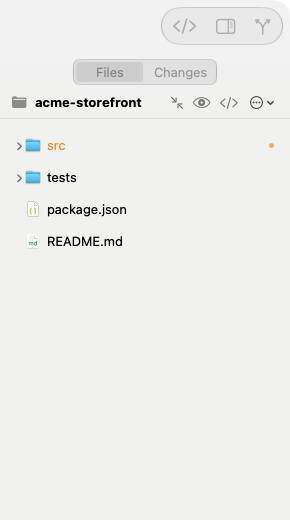
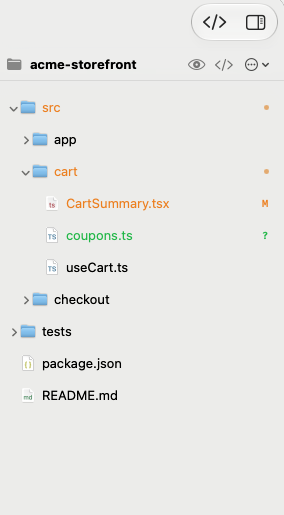
Docs: keep the Files panel screenshot that shows git marks; note the Sessions tab's title
The refreshed crop showed a collapsed tree (folders can't be expanded from a snapshot hook), so
the caption's M / A / ? marks weren't visible.

Claude-Session: https://claude.ai/code/session_01HNBpFA1pBHkNUddaWAkrrL

diff --git a/docs/tr/index.html b/docs/tr/index.html
@@ -88,7 +88,7 @@
         </figure>
         <figure class="shot">
           <img src="../screenshots/automations.png" width="1600" height="900" loading="lazy" alt="Hafta içi zamanlaması ve çalışma geçmişiyle Otomasyonlar sekmesi">
-          <figcaption><b>Otomasyonlar.</b> Saatte, günde, hafta içi her gün ya da haftada bir, ya da Şimdi Çalıştır'a bastığında Claude oturumu başlatan prompt'lar. Her çalışma, oturumuyla birlikte geçmişte durur.</figcaption>
+          <figcaption><b>Otomasyonlar.</b> Saatte bir, günde bir, hafta içi her gün ya da haftada bir, ya da Şimdi Çalıştır'a bastığında Claude oturumu başlatan prompt'lar. Her çalışma, oturumuyla birlikte geçmişte durur.</figcaption>
         </figure>
         <figure class="shot">
           <img src="../screenshots/github.png" width="1600" height="900" loading="lazy" alt="Başarısız bir kontrol, istenen değişiklikler ve son yorumlarla bağlı bir pull request'in açılır penceresi">
@@ -101,7 +101,7 @@
           <figcaption><b>Bekleyenler.</b> Tam komutuyla bir izin istemi, Claude'un sorduğu bir soru ve son mesajıyla biten bir iş. Aynı istemler bildirim olarak da gelir.</figcaption>
         </figure>
         <figure class="shot">
-          <img src="../screenshots/files.png" width="290" height="520" loading="lazy" alt="Git işaretli Dosyalar paneli">
+          <img src="../screenshots/files.png" width="284" height="515" loading="lazy" alt="Git işaretli Dosyalar paneli">
           <figcaption><b>Dosyalar paneli.</b> Git işaretli canlı dosya ağacı: değişenler <b>M</b>, yeniler <b>?</b>. Dosyayı seçince geçmişi ve diff'i görünür; Claude'a sürükleyince <code>@yol</code> olarak eklenir. ⌘P ile herhangi bir dosyayı adıyla açarsın.</figcaption>
         </figure>
         <figure class="shot">

diff --git a/docs/index.html b/docs/index.html
@@ -101,7 +101,7 @@
           <figcaption><b>Needs Attention.</b> A permission prompt with the exact command, a question Claude is asking, and a finished turn with its last message. The same prompts arrive as notifications.</figcaption>
         </figure>
         <figure class="shot">
-          <img src="screenshots/files.png" width="290" height="520" loading="lazy" alt="Files panel with git status marks">
+          <img src="screenshots/files.png" width="284" height="515" loading="lazy" alt="Files panel with git status marks">
           <figcaption><b>Files panel.</b> Live file tree with git marks: <b>M</b> for modified, <b>?</b> for new. Select a file for its history and diffs, or drag it into Claude as <code>@path</code>. ⌘P opens any file by name.</figcaption>
         </figure>
         <figure class="shot">

diff --git a/README.tr.md b/README.tr.md
@@ -70,7 +70,7 @@ Ayarların, `CLAUDE.md` dosyaların, remote-control, MCP, skill'ler ve diğer ho
         <li>Turuncu <b>M</b>: değişmiş. Yeşil <b>A/?</b>: yeni. Değişiklik içeren klasörler noktalı. <code>.gitignore</code>'un dışladığı dosyalar gizli kalır.</li>
         <li>Bir dosyayı seçince commit geçmişi ve diff'leri görünür; kaydedilmemiş değişiklikler de dahil.</li>
         <li>Dosyayı bir Claude bölmesine sürükle, <code>@yol</code> olarak eklensin. Dosyaları bir klasörün üstüne sürükleyerek taşırsın, Finder'dan da bırakabilirsin.</li>
-        <li>Üstteki <b>Files | Changes</b> paneli kaynak kontrolüne çevirir.</li>
+        <li>Panelin üstündeki <b>Files | Changes</b> paneli kaynak kontrolüne çevirir (ana ekran görüntüsünde görünüyor).</li>
       </ul>
     </td>
   </tr>
@@ -90,7 +90,7 @@ Ayarların, `CLAUDE.md` dosyaların, remote-control, MCP, skill'ler ve diğer ho
       <img src="docs/screenshots/tabs-editor.png" alt="Araç çubuğunda düzenleyici sekmeleri, açık bir TypeScript dosyası ve Dosyalar paneli">
     </td>
     <td valign="top">
-      <b>Sekmeler ve yerleşik düzenleyici.</b> Dosyalar araç çubuğunda sekme olarak açılır; ilk sekme her zaman <b>Oturumlar</b> (Sessions) sekmesidir:
+      <b>Sekmeler ve yerleşik düzenleyici.</b> Dosyalar araç çubuğunda sekme olarak açılır; ilk sekme her zaman <b>Oturumlar</b> (Sessions) sekmesidir ve odaktaki oturumun adını taşır:
       <ul>
         <li>Sözdizimi renklendirmesi, satır numaraları, bul ve değiştir ve ⌘S ile hafif bir kod düzenleyicisi.</li>
         <li><b>Claude'a Ekle</b> (yol çubuğundaki <code>@</code>) seçili oturuma <code>@yol</code> yazar; satır seçiliyse <code>@yol#L10-20</code>.</li>
@@ -347,7 +347,7 @@ Sabit bir imza kullanıldığı için macOS'un verdiği izinler (klasör erişim
 
 ### Sekmeler
 - Oturumlar dışında bir şey açılınca araç çubuğunda pencere başlığının yerine sekmeler çıkar:
-  - **Oturumlar** her zaman ilk sekmedir (⌘1): kenar çubuğundaki oturumlar ve bölmeler, eskisi gibi.
+  - **Oturumlar** her zaman ilk sekmedir (⌘1) ve odaktaki oturumun adıyla görünür: kenar çubuğundaki oturumlar ve bölmeler, eskisi gibi.
   - **Dosyalar** yerleşik düzenleyicide, Değişiklikler'deki **diff'ler** tam genişlikte, **Otomasyonlar** kendi sekmesinde açılır.
 - **Önizleme sekmesi:** Hızlı Aç'tan ya da Dosyalarda Bul'dan açılan dosyalar ve Değişiklikler'de tıklanan
   diff'ler italik bir önizleme sekmesinde açılır; sonraki onun yerine geçer. Düzenlersen ya da "Açık tut"

diff --git a/README.md b/README.md
@@ -68,7 +68,7 @@ ClaudeDeck doesn't wrap, imitate or screen-scrape Claude. Every session runs **y
         <li>Orange <b>M</b>: modified. Green <b>A/?</b>: new. Folders with changes get a dot. Files your <code>.gitignore</code> ignores stay hidden.</li>
         <li>Select a file to see its commit history and diffs, including uncommitted changes.</li>
         <li>Drag a file into a Claude pane to add it as <code>@path</code>. Drag files onto a folder to move them, or drop them in from Finder.</li>
-        <li><b>Files | Changes</b> at the top switches the panel to source control.</li>
+        <li><b>Files | Changes</b> at the top of the panel switches it to source control (see the main screenshot).</li>
       </ul>
     </td>
   </tr>
@@ -88,7 +88,7 @@ ClaudeDeck doesn't wrap, imitate or screen-scrape Claude. Every session runs **y
       <img src="docs/screenshots/tabs-editor.png" alt="Editor tabs in the toolbar with a TypeScript file open and the Files panel">
     </td>
     <td valign="top">
-      <b>Tabs and the built-in editor.</b> Files open as tabs in the toolbar, next to <b>Sessions</b>, which is always the first tab:
+      <b>Tabs and the built-in editor.</b> Files open as tabs in the toolbar, next to <b>Sessions</b>, which is always the first tab (it shows the focused session's name):
       <ul>
         <li>A light code editor with syntax colors, line numbers, find and replace, and ⌘S.</li>
         <li><b>Add to Claude</b> (<code>@</code> in the path bar) inserts <code>@path</code> into the selected session, or <code>@path#L10-20</code> when lines are selected.</li>
@@ -338,7 +338,8 @@ The app is signed with a Developer ID and notarized by Apple, so Gatekeeper won'
 
 ### Tabs
 - The toolbar shows tabs in place of the window title once anything besides Sessions is open:
-  - **Sessions** is always the first tab (⌘1): the sidebar's sessions and panes, as before.
+  - **Sessions** is always the first tab (⌘1), titled with the focused session's name: the sidebar's
+    sessions and panes, as before.
   - **Files** open in the built-in editor, **diffs** from Changes open full width, and **Automations** has its own tab.
 - **Preview tabs:** files opened from Quick Open or Find in Files, and diffs clicked in Changes, open in a
   preview tab (in italics) that the next one replaces. Editing it, or choosing Keep Open, keeps it.
